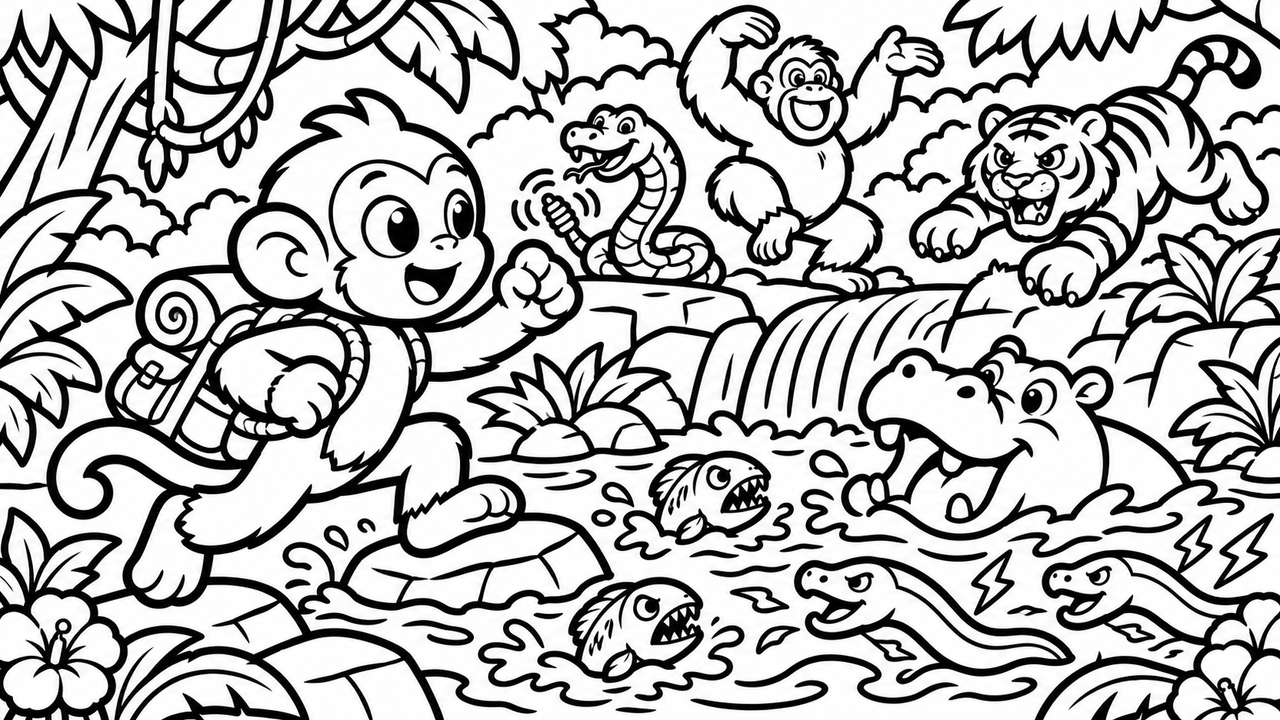
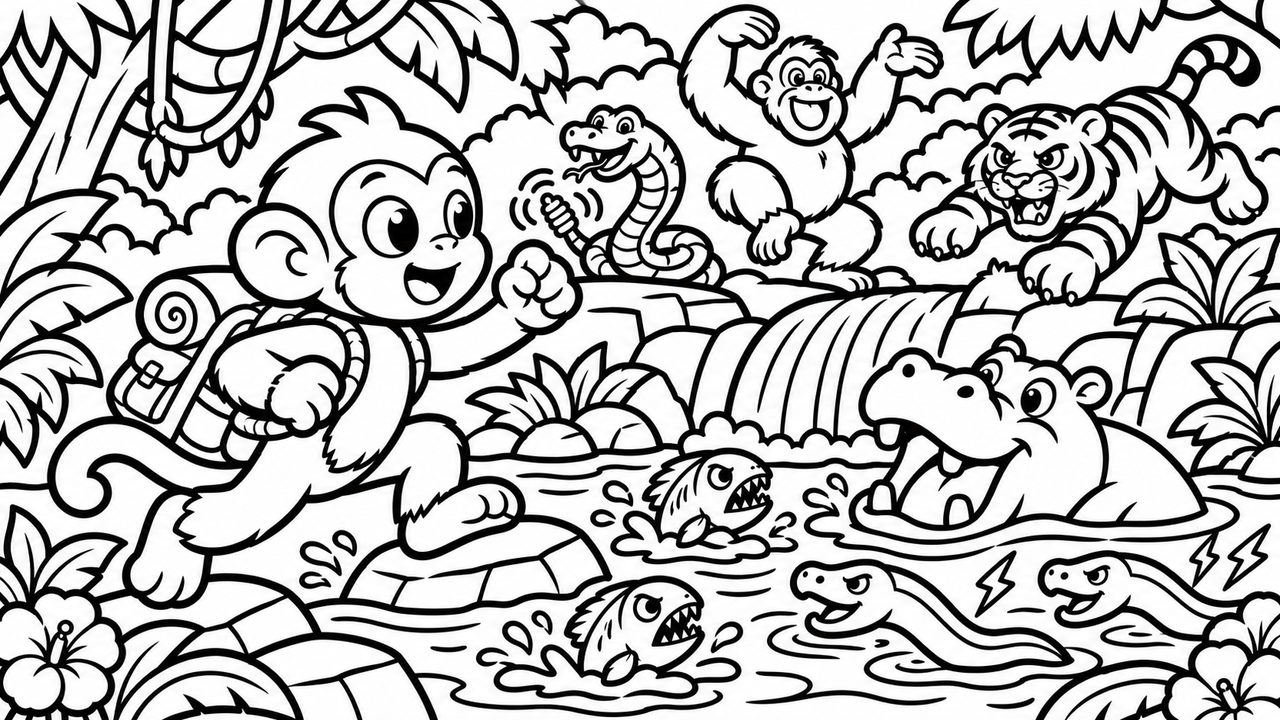
fix: correct description of jungle river coloring page in README and update image

diff --git a/public/games/coloring/README.md b/public/games/coloring/README.md
@@ -4,7 +4,7 @@ The four coloring pages were supplied by the user for this game:
 
 - `treasure-jungle.png`: Monkey and Jaguar Treasure Adventure (1).png
 - `crocodile-creek.png`: Crocodile and Monkey Jungle Adventure.png
-- `jungle-river.png`: Jungle River Adventure Coloring Page.png
+- `jungle-river.png`: Jungle Adventure Coloring Scene.png (corrected replacement)
 - `jungle-friends.png`: Smiling Jungle Friends Coloring Scene.png
 
 The imported drawings are resized to 1280 pixels wide and stored as optimized
